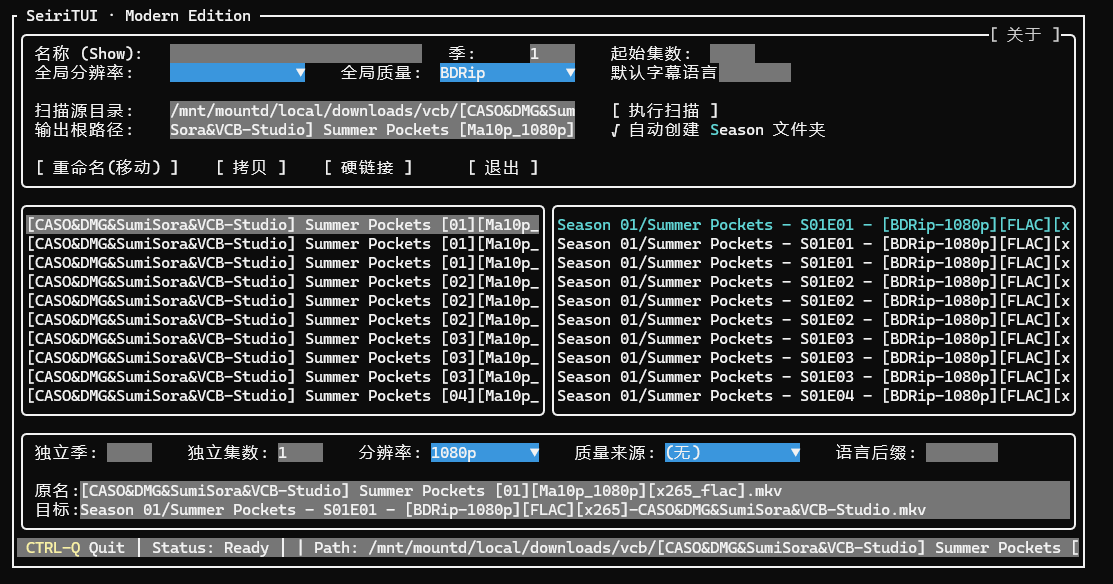
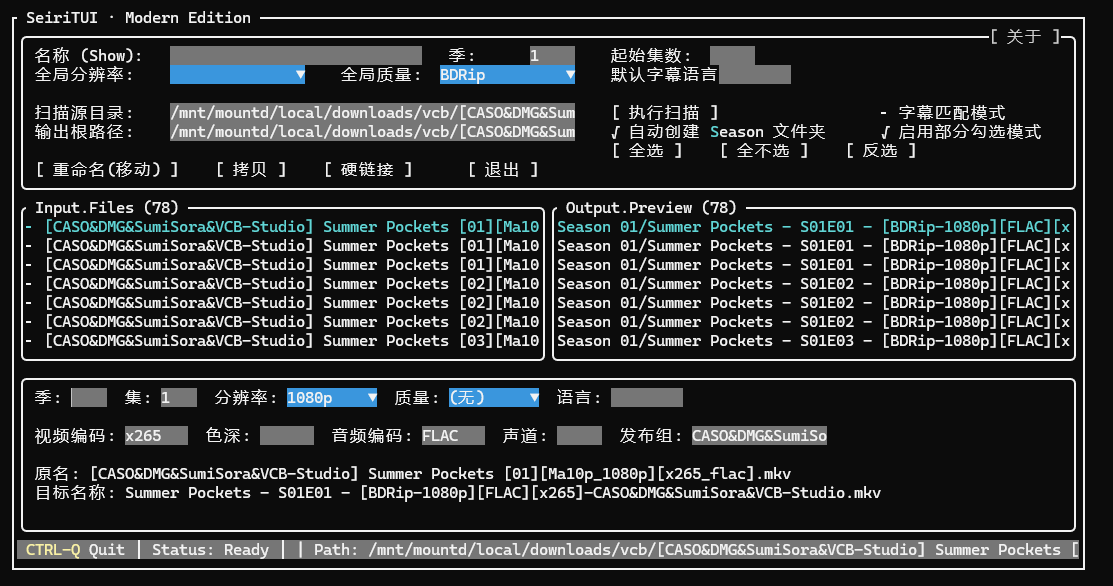
docs: 更新预览图

Changed region(s): [[0.0, 0.2774, 0.9775, 0.9247], [0.0, 0.0, 0.9775, 0.2774], [0.7637, 0.1541, 0.947, 0.2774]]

diff --git a/README.md b/README.md
@@ -9,6 +9,9 @@
 <p align="center">
   <img src="screenshots/screenshot.png" alt="Seiri-TUI Interface Preview" width="800">
 </p>
+<p align="center">
+  <img src="screenshots/screenshot-subtitle.png" alt="Seiri-TUI Subtitle Interface Preview" width="800">
+</p>
 
 ## ✨ 核心特性
 
@@ -37,17 +40,7 @@ cd Seiri-TUI
 dotnet run --project SeiriTUI/SeiriTUI.csproj
 ```
 
-# 3. AOT 独立发布 (推荐给 NAS 用户)
-
-为了在无 .NET 环境的服务器或 NAS（如 Debian/Ubuntu）上运行，推荐发布为 Self-Contained 的 AOT 二进制文件：
-
-```bash
-dotnet publish SeiriTUI/SeiriTUI.csproj -c Release -r linux-x64 --self-contained true
-```
-
-编译产物将位于 `SeiriTUI/bin/Release/net8.0/linux-x64/publish/`，直接将 `SeiriTUI` 可执行文件丢入 NAS 即可运行。
-
-# 4. GitHub Actions 自动构建
+# 3. GitHub Actions 自动构建
 
 GitHub Actions 将自动构建并发布 deb 包。在 Release 页面下载即可。Linux 终端执行 `seiri-tui` 即可运行。
 
